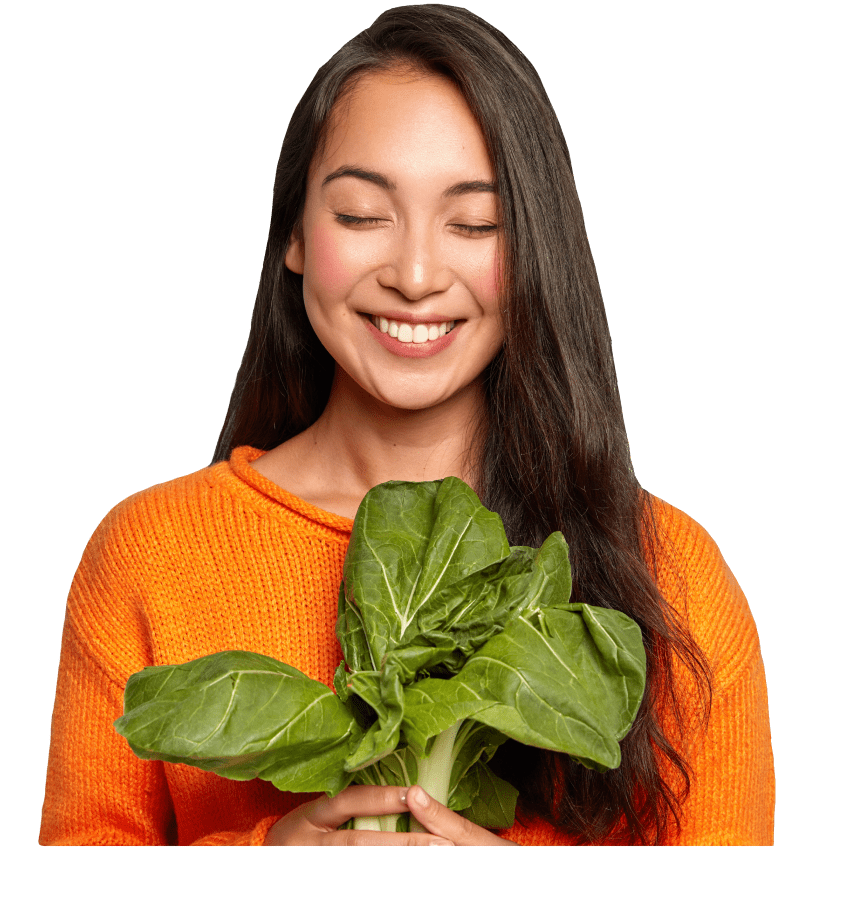
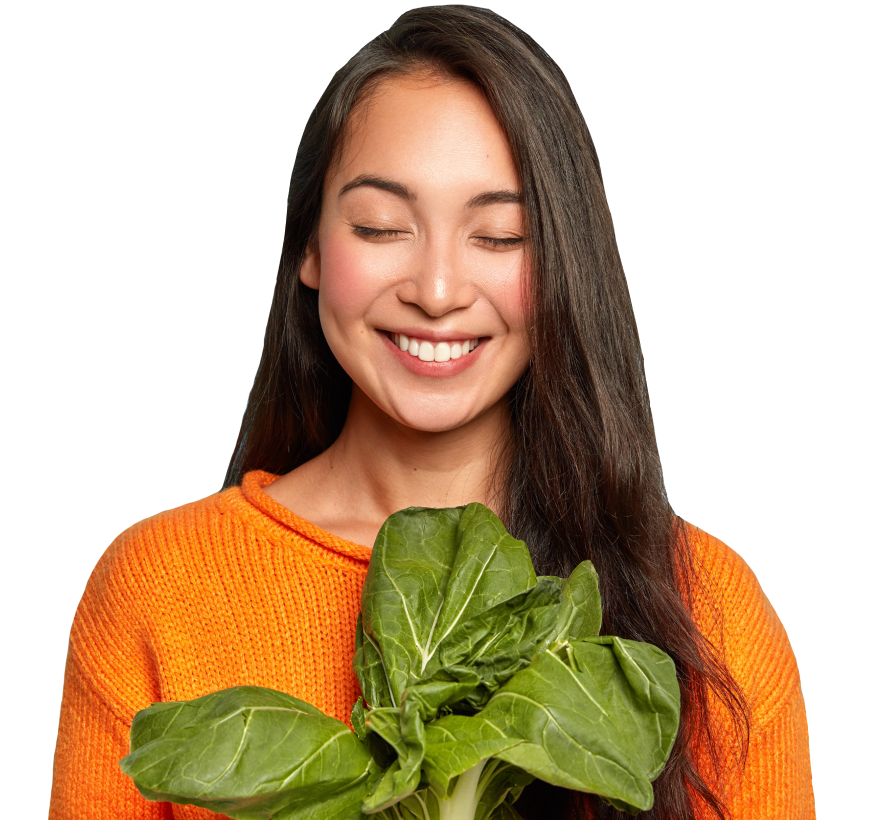
edit img modal and hero

diff --git a/src/partials/modal.html b/src/partials/modal.html
@@ -37,16 +37,35 @@
               <p>Plant</p>
             </div>
             <div class="form-items-img">
-              <img
-                srcset="
-                  ./img/modal/cabbage.png    1x,
-                  ./img/modal/cabbage-2x.png 2x
-                "
-                src="/img/modal/cabbage.png"
-                alt="Cabbage Basket"
-                width="94"
-                height="78"
-              />
+              <picture>
+                <source
+                  srcset="
+                    /img/mobile/cabbage-modal.png    1x,
+                    /img/mobile/cabbage-modal@2x.png 2x
+                  "
+                  media="(max-width:767px)"
+                />
+                <source
+                  srcset="
+                    /img/tablet/cabbage-modal.png    1x,
+                    /img/tablet/cabbage-modal@2x.png 2x
+                  "
+                  media="(max-width:1279px)"
+                />
+                <source
+                  srcset="
+                    /img/desktop/cabbage-modal.png    1x,
+                    /img/desktop/cabbage-modal@2x.png 2x
+                  "
+                  media="(min-width:1280px)"
+                />
+                <img
+                  src="/img/mobile/cabbage-modal.png"
+                  alt="Cabbage"
+                  width="94"
+                  height="78"
+                />
+              </picture>
             </div>
           </div>
 
@@ -71,13 +90,35 @@
               <p>Plant</p>
             </div>
             <div class="form-items-img">
-              <img
-                srcset="/img/modal/tomato.png 1x, /img/modal/tomato-2x.png 2x"
-                src="/img/modal/tomato.png"
-                alt="Tomato Basket"
-                width="94"
-                height="78"
-              />
+              <picture>
+                <source
+                  srcset="
+                    /img/mobile/tomato-modal.png    1x,
+                    /img/mobile/tomato-modal@2x.png 2x
+                  "
+                  media="(max-width:767px)"
+                />
+                <source
+                  srcset="
+                    /img/tablet/tomato-modal.png    1x,
+                    /img/tablet/tomato-modal@2x.png 2x
+                  "
+                  media="(max-width:1279px)"
+                />
+                <source
+                  srcset="
+                    /img/desktop/tomato-modal.png    1x,
+                    /img/desktop/tomato-modal@2x.png 2x
+                  "
+                  media="(min-width:1280px)"
+                />
+                <img
+                  src="/img/mobile/tomato-modal.png"
+                  alt="Tomato Basket"
+                  width="94"
+                  height="78"
+                />
+              </picture>
             </div>
           </div>
 
@@ -102,16 +143,35 @@
               <p>Plant</p>
             </div>
             <div class="form-items-img">
-              <img
-                srcset="
-                  /img/modal/vegetables.png    1x,
-                  /img/modal/vegetables-2x.png 2x
-                "
-                src="/img/modal/vegetables.png"
-                alt="Vegetables Basket"
-                width="94"
-                height="78"
-              />
+              <picture>
+                <source
+                  srcset="
+                    /img/mobile/vegetables-modal.png    1x,
+                    /img/mobile/vegetables-modal@2x.png 2x
+                  "
+                  media="(max-width:767px)"
+                />
+                <source
+                  srcset="
+                    /img/tablet/vegetables-modal.png    1x,
+                    /img/tablet/vegetables-modal@2x.png 2x
+                  "
+                  media="(max-width:1279px)"
+                />
+                <source
+                  srcset="
+                    /img/desktop/vegetables-modal.png    1x,
+                    /img/desktop/vegetables-modal@2x.png 2x
+                  "
+                  media="(min-width:1280px)"
+                />
+                <img
+                  src="/img/mobile/vegetables-modal.png"
+                  alt="Vegetables"
+                  width="94"
+                  height="78"
+                />
+              </picture>
             </div>
           </div>
         </div>
@@ -163,14 +223,33 @@
       <button class="modal-button" type="submit">
         <span class="modal-btn-txt">Submit</span>
       </button>
-      <img
-        class="img-girl"
-        srcset="/img/modal/img-girl.png 1x, /img/modal/img-girl-2x.png 2x"
-        src="/img/modal/img-girl.png"
-        alt="Cabbage Basket"
-        width="290"
-        height="403"
-      />
+
+      <picture class="img-girl">
+        <source
+          srcset="
+            /img/tablet/modal-girl.png    1x,
+            /img/tablet/modal-girl@2x.png 2x
+          "
+          media="(max-width:1279px)"
+          width="290"
+          height="403"
+        />
+        <source
+          srcset="
+            /img/desktop/modal-girl.png    1x,
+            /img/desktop/modal-girl@2x.png 2x
+          "
+          media="(min-width:1280px)"
+          width="444"
+          height="413"
+        />
+        <img
+          src="/img/tablet/modal-girl.png"
+          alt="Girl Photo"
+          width="290"
+          height="403"
+        />
+      </picture>
     </form>
   </div>
 </div>

diff --git a/src/partials/sections/hero.html b/src/partials/sections/hero.html
@@ -4,40 +4,97 @@
       <div class="container-users-hero">
         <ul class="users-list-hero">
           <li class="users-item-hero">
-            <img
-              srcset="
-                ./img/desktop/hero-review-1.png    1x,
-                ./img/desktop/hero-review-1@2x.png 2x
-              "
-              src="./img/desktop/hero-review-1.png"
-              alt="users1"
-              width="72"
-              height="72"
-            />
+            <picture>
+              <source
+                srcset="
+                  /img/mobile/hero-review-1.png    1x,
+                  /img/mobile/hero-review-1@2x.png 2x
+                "
+                media="(max-width:767px)"
+              />
+              <source
+                srcset="
+                  /img/tablet/hero-review-1.png    1x,
+                  /img/tablet/hero-review-1@2x.png 2x
+                "
+                media="(max-width:1279px)"
+              />
+              <source
+                srcset="
+                  /img/desktop/hero-review-1.png    1x,
+                  /img/desktop/hero-review-1@2x.png 2x
+                "
+                media="(min-width:1280px)"
+              />
+              <img
+                src="/img/desktop/hero-review-1.png"
+                alt="users1"
+                width="72"
+                height="72"
+              />
+            </picture>
           </li>
           <li class="users-item-hero">
-            <img
-              srcset="
-                ./img/desktop/hero-review-2.png    1x,
-                ./img/desktop/hero-review-2@2x.png 2x
-              "
-              src="./img/desktop/hero-review-2.png"
-              alt="users2"
-              width="72"
-              height="72"
-            />
+            <picture>
+              <source
+                srcset="
+                  /img/mobile/hero-review-2.png    1x,
+                  /img/mobile/hero-review-2@2x.png 2x
+                "
+                media="(max-width:767px)"
+              />
+              <source
+                srcset="
+                  /img/tablet/hero-review-2.png    1x,
+                  /img/tablet/hero-review-2@2x.png 2x
+                "
+                media="(max-width:1279px)"
+              />
+              <source
+                srcset="
+                  /img/desktop/hero-review-2.png    1x,
+                  /img/desktop/hero-review-2@2x.png 2x
+                "
+                media="(min-width:1280px)"
+              />
+              <img
+                src="/img/desktop/hero-review-2.png"
+                alt="users2"
+                width="72"
+                height="72"
+              />
+            </picture>
           </li>
           <li class="users-item-hero">
-            <img
-              srcset="
-                ./img/desktop/hero-review-3.png    1x,
-                ./img/desktop/hero-review-3@2x.png 2x
-              "
-              src="./img/desktop/hero-review-3.png"
-              alt="users3"
-              width="72"
-              height="72"
-            />
+            <picture>
+              <source
+                srcset="
+                  /img/mobile/hero-review-3.png    1x,
+                  /img/mobile/hero-review-3@2x.png 2x
+                "
+                media="(max-width:767px)"
+              />
+              <source
+                srcset="
+                  /img/tablet/hero-review-3.png    1x,
+                  /img/tablet/hero-review-3@2x.png 2x
+                "
+                media="(max-width:1279px)"
+              />
+              <source
+                srcset="
+                  /img/desktop/hero-review-3.png    1x,
+                  /img/desktop/hero-review-3@2x.png 2x
+                "
+                media="(min-width:1280px)"
+              />
+              <img
+                src="/img/desktop/hero-review-3.png"
+                alt="users1"
+                width="72"
+                height="72"
+              />
+            </picture>
           </li>
           <li class="users-item-hero"></li>
         </ul>
@@ -60,15 +117,30 @@
     </div>
     <div class="container-hero-second">
       <div class="container-image-hero">
-        <img
-          class="image-hero"
-          srcset="
-            ./img/desktop/hero-girl.png    1x,
-            ./img/desktop/hero-girl@2x.png 2x
-          "
-          src="./img/desktop/hero-girl.png"
-          alt="hero-girl-alt"
-        />
+        <picture class="image-hero">
+          <source
+            srcset="
+              /img/mobile/hero-girl.png    1x,
+              /img/mobile/hero-girl@2x.png 2x
+            "
+            media="(max-width:767px)"
+          />
+          <source
+            srcset="
+              /img/tablet/hero-girl.png    1x,
+              /img/tablet/hero-girl@2x.png 2x
+            "
+            media="(max-width:1279px)"
+          />
+          <source
+            srcset="
+              img/desktop/hero-girl.png     1x,
+              /img/desktop/hero-girl@2x.png 2x
+            "
+            media="(min-width:1280px)"
+          />
+          <img src="/img/desktop/hero-girl.png" alt="hero-girl-alt" />
+        </picture>
       </div>
       <div class="container-tags-hero">
         <ul class="tags-hero-list">

diff --git a/src/css/modal.css b/src/css/modal.css
@@ -242,9 +242,9 @@
   .img-girl {
     display: inline;
     position: absolute;
-    width: 444px;
-    bottom: -10px;
-    right: -154px;
+    /* width: 444px; */
+    bottom: 0px;
+    right: 0px;
   }
   .form-items-checkbox {
     flex-direction: column;
@@ -279,7 +279,7 @@
 
 @media screen and (min-width: 1280px) {
   .img-girl {
-    bottom: 3px;
+    bottom: -3px;
     right: 7px;
   }
 

diff --git a/src/css/sections/hero.css b/src/css/sections/hero.css
@@ -174,7 +174,7 @@
     margin: 0 0 16px 32px;
   }
   .image-hero {
-    width: 1500px;
+    width: 422px;
   }
   .hero-btn {
     height: 132px;
